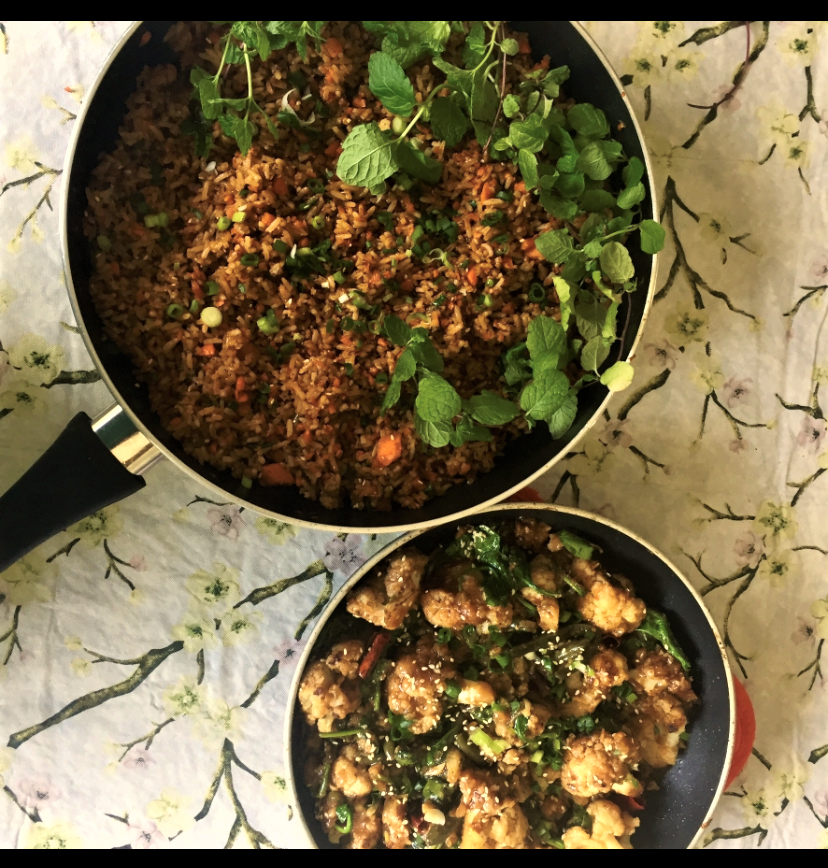
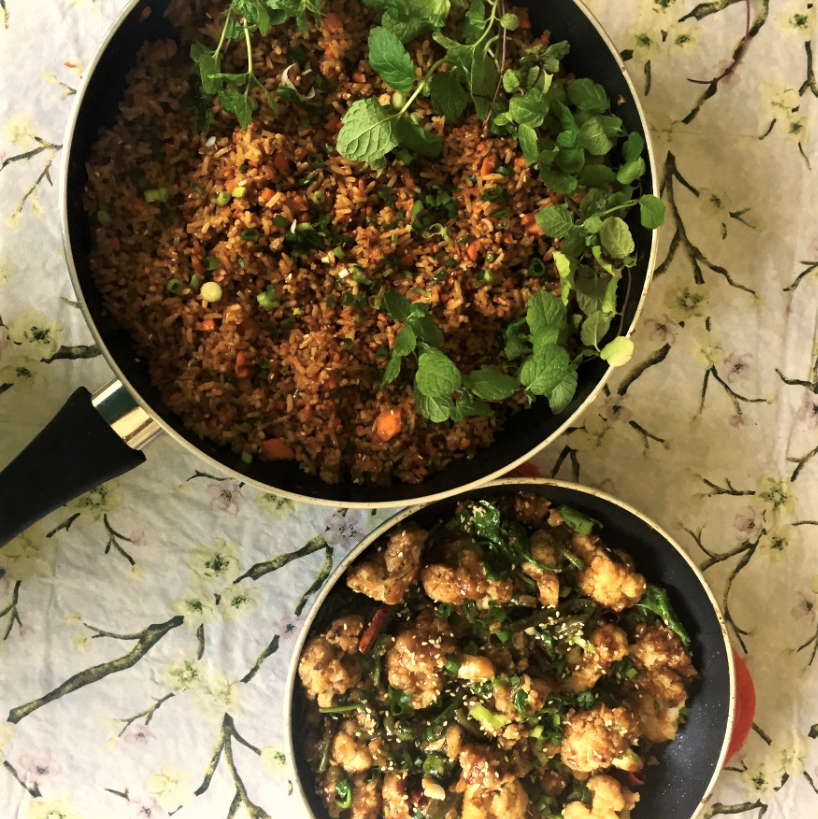
Added new image and organized image placements

diff --git a/index.html b/index.html
@@ -49,7 +49,7 @@
     <div class="container">
       <div class="row mb-5">
         <div class="col-6">
-          <img src="images/food-portfolio.png" class="img-fluid" alt="" />
+          <img src="images/Chicken-Enchiladas-Verdes.jpg" class="img-fluid rounded" alt="" />
           <div class="project-desciption">
             <h2 class="mb-2">Chicken Enchiladas</h2>
             <p class="mb-2 text-muted">
@@ -60,7 +60,7 @@
          </div>
 
            <div class="col-6">
-          <img src="images/food-portfolio.png" class="img-fluid" alt="" />
+          <img src="images/food-portfolio.png" class="img-fluid rounded" alt="" />
           <div class="project-desciption">
             <h2 class="mb-2">Kung Pao Cauliflower</h2>
             <p class="mb-2 text-muted">
@@ -73,7 +73,7 @@
         <div class="container">
       <div class="row mb-5">
         <div class="col-6">
-          <img src="images/food-portfolio.png" class="img-fluid" alt="" />
+          <img src="images/Chicken-Enchiladas-Verdes.jpg" class="img-fluid rounded" alt="" />
           <div class="project-desciption">
             <h2 class="mb-2">Chicken Enchiladas</h2>
             <p class="mb-2 text-muted">
@@ -84,7 +84,7 @@
          </div>
 
            <div class="col-6">
-          <img src="images/food-portfolio.png" class="img-fluid" alt="" />
+          <img src="images/food-portfolio.png" class="img-fluid rounded" alt="" />
           <div class="project-desciption">
             <h2 class="mb-2">Kung Pao Cauliflower</h2>
             <p class="mb-2 text-muted">

diff --git a/styles/portfolio.css b/styles/portfolio.css
@@ -10,6 +10,12 @@ h1 {
   font-weight: bold;
 }
 
+img {
+    width: 300px;
+    height: 300px;
+}
+
+
 .homepage-hero {
   text-align: center;
   padding: 160px 20px;
@@ -45,3 +51,4 @@ h1 {
   padding: 15px 30px;
   font-family: var(--heading-font-family);
 }
+
